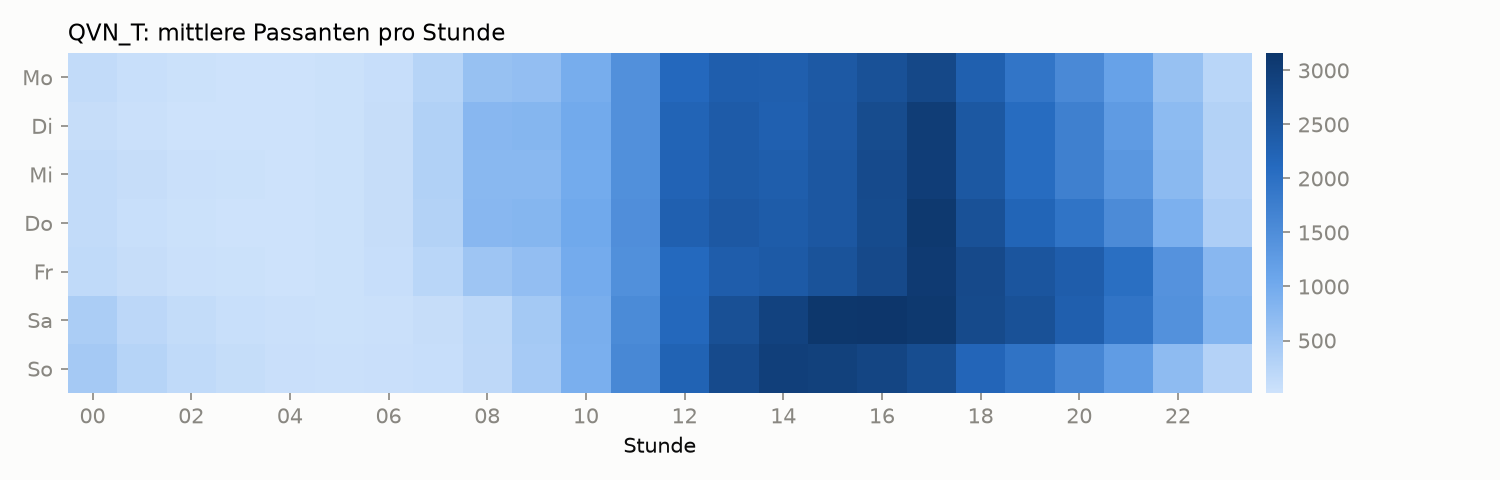
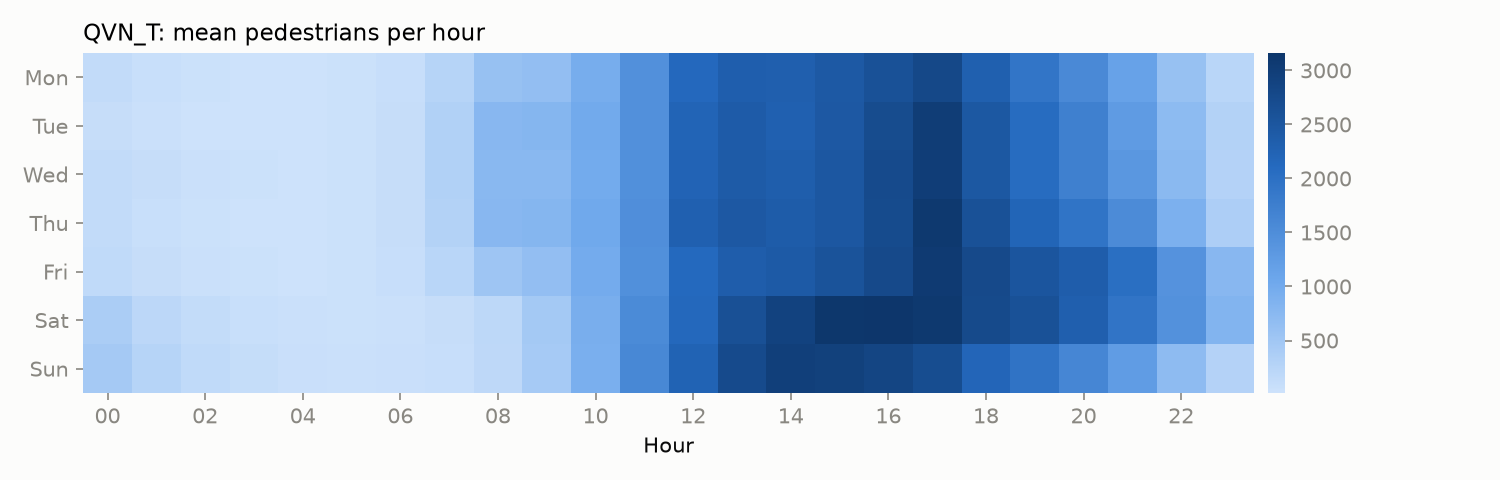
english translation

diff --git a/src/report.py b/src/report.py
@@ -8,7 +8,7 @@ from src.backtest import RESULTS
 from src.palette import COLORS, MODELS
 INK, MUTED, SURFACE = "#0b0b0b", "#898781", "#fcfcfb"
 BLUES = LinearSegmentedColormap.from_list("blues", ["#cde2fb", "#6da7ec", "#256abf", "#0d366b"])
-DAYS = ["Mo", "Di", "Mi", "Do", "Fr", "Sa", "So"]
+DAYS = ["Mon", "Tue", "Wed", "Thu", "Fri", "Sat", "Sun"]
 
 plt.rcParams.update(
     {
@@ -33,7 +33,7 @@ def tuning_table(path) -> str:
     if not path.exists():
         return ""
     report = json.loads(path.read_text())
-    lines = ["| Variante | MASE 24 h | MASE 7 d |", "|---|---|---|"]
+    lines = ["| Variant | MASE 24 h | MASE 7 d |", "|---|---|---|"]
     for variant in report["24"]:
         lines.append(f"| {variant} | {report['24'][variant]:.3f} | {report['168'][variant]:.3f} |")
     return "\n".join(lines)
@@ -47,7 +47,7 @@ def leaderboard(metrics: pd.DataFrame) -> str:
     agg["Coverage80"] = agg["Coverage80"].map("{:.0f} %".format)
     wide = agg.pivot(index="model", columns="horizon").reindex(present(agg))
     lines = [
-        "| Modell | MASE 24 h | MASE 7 d | sMAPE 24 h | sMAPE 7 d | Abdeckung 80 % (7 d) |",
+        "| Model | MASE 24 h | MASE 7 d | sMAPE 24 h | sMAPE 7 d | 80 % coverage (7 d) |",
         "|---|---|---|---|---|---|",
     ]
     for m, r in wide.iterrows():
@@ -62,7 +62,7 @@ def holiday_split(fc: pd.DataFrame, history: pd.DataFrame) -> str:
     df = fc[(fc["horizon"] == 168) & ~fc["imputed"]].merge(history[["unique_id", "ds", "holiday"]])
     df["ase"] = (df["y"] - df["yhat"]).abs() / df["scale"]
     tab = df.groupby(["model", "holiday"], observed=True)["ase"].mean().unstack().reindex(present(df))
-    lines = ["| Modell | MASE normale Tage | MASE Feiertage |", "|---|---|---|"]
+    lines = ["| Model | MASE regular days | MASE holidays |", "|---|---|---|"]
     lines += [f"| {m} | {r[False]:.3f} | {r[True]:.3f} |" for m, r in tab.iterrows()]
     return "\n".join(lines)
 
@@ -89,9 +89,9 @@ def hero(fc: pd.DataFrame, models: list[str], sensor: str, origin: pd.Timestamp,
         mase = (d["y"] - d["yhat"]).abs().mean() / d["scale"].iloc[0]
         ax.set_title(f"{model}  ·  MASE {mase:.2f}", loc="left", fontsize=10, color=INK)
         ax.grid(axis="y", color=MUTED, alpha=0.2)
-    axes[0].legend(["80 %-Intervall", "Ist", "Prognose"], loc="upper right", frameon=False, ncol=3, fontsize=9)
-    fig.supylabel("Passanten pro Stunde", color=INK)
-    fig.suptitle(f"{sensor}: 7-Tage-Prognose ab {origin + pd.Timedelta(hours=1):%d.%m.%Y}", x=0.01, ha="left")
+    axes[0].legend(["80 % interval", "Actual", "Forecast"], loc="upper right", frameon=False, ncol=3, fontsize=9)
+    fig.supylabel("Pedestrians per hour", color=INK)
+    fig.suptitle(f"{sensor}: 7-day forecast from {origin + pd.Timedelta(hours=1):%Y-%m-%d}", x=0.01, ha="left")
     fig.tight_layout()
     fig.savefig(path, dpi=150)
     plt.close(fig)
@@ -104,8 +104,8 @@ def heatmap(history: pd.DataFrame, sensor: str, path):
     im = ax.imshow(grid.to_numpy(), aspect="auto", cmap=BLUES)
     ax.set_yticks(range(7), DAYS)
     ax.set_xticks(range(0, 24, 2), [f"{h:02d}" for h in range(0, 24, 2)])
-    ax.set_xlabel("Stunde")
-    ax.set_title(f"{sensor}: mittlere Passanten pro Stunde", loc="left", fontsize=11)
+    ax.set_xlabel("Hour")
+    ax.set_title(f"{sensor}: mean pedestrians per hour", loc="left", fontsize=11)
     ax.spines[:].set_visible(False)
     fig.colorbar(im, ax=ax, pad=0.01).outline.set_visible(False)
     fig.tight_layout()
@@ -129,9 +129,9 @@ def main():
     report = "\n\n".join(
         [
             "## Leaderboard\n\n" + leaderboard(metrics),
-            "## Feiertage\n\n" + holiday_split(fc, history),
-            "## MASE pro Sensor (7 d)\n\n" + per_sensor(metrics),
-            "## LightGBM: Tuning und Features (Validierung)\n\n" + tuning_table(RESULTS / "tuning.json"),
+            "## Holidays\n\n" + holiday_split(fc, history),
+            "## MASE per sensor (7 d)\n\n" + per_sensor(metrics),
+            "## LightGBM: tuning and features (validation)\n\n" + tuning_table(RESULTS / "tuning.json"),
         ]
     )
     (RESULTS / "leaderboard.md").write_text(report + "\n")

diff --git a/README.md b/README.md
@@ -1,38 +1,38 @@
 # Pedestrian Traffic Forecast
 
-Stündliche Passantenzahlen in Melbourne vorhersagen und dabei eine Frage beantworten:
-**Lohnt sich ein Zeitreihen-Foundation-Model gegenüber einem gut gebauten LightGBM?**
+Forecasting hourly pedestrian counts in Melbourne to answer one question:
+**Is a time series foundation model worth it compared to a well-built LightGBM?**
 
 ![Hero](results/hero.png)
 
-## Daten
+## Data
 
-- [Melbourne Pedestrian Counting System](https://data.melbourne.vic.gov.au/explore/dataset/pedestrian-counting-system-monthly-counts-per-hour/), stündlich, ~100 Sensoren. Das Portal liefert ein rollierendes 2-Jahres-Fenster, Corona-Jahre sind damit automatisch ausgeschlossen.
-- Wetter: [Open-Meteo Historical API](https://open-meteo.com/en/docs/historical-weather-api) (Temperatur, Niederschlag)
-- Feiertage: `holidays` (AU, Victoria), inkl. Melbourne Cup und AFL Grand Final Friday
+- [Melbourne Pedestrian Counting System](https://data.melbourne.vic.gov.au/explore/dataset/pedestrian-counting-system-monthly-counts-per-hour/), hourly, ~100 sensors. The portal serves a rolling 2-year window, so the Covid years are excluded automatically.
+- Weather: [Open-Meteo Historical API](https://open-meteo.com/en/docs/historical-weather-api) (temperature, precipitation)
+- Holidays: `holidays` (AU, Victoria), including Melbourne Cup and AFL Grand Final Friday
 
-Auswahl: 8 Sensoren mit ≥ 99 % Abdeckung und dem höchsten mittleren Aufkommen. Lücken werden aufgefüllt, aber nicht bewertet.
+Selection: the 8 sensors with ≥ 99 % coverage and the highest mean volume. Gaps are filled but not scored.
 
-![Fingerabdruck](results/heatmap.png)
+![Fingerprint](results/heatmap.png)
 
-## Modelle
+## Models
 
-| Modell | Idee |
+| Model | Idea |
 |---|---|
-| SeasonalNaive | Wert derselben Stunde der Vorwoche |
-| MSTL-ETS | log-Skala, Zerlegung in Tages- und Wochensaison, ETS auf dem Rest |
-| Prophet | log-Skala, getrennte Tagesprofile für Werk- und Freitage, Feiertage, Wetter |
-| LightGBM | ein globales Modell über alle Sensoren, Kalender, Wetter, Lags; je Horizont ein Modell mit Lags ≥ Horizont, Quantilmodelle für das Intervall |
-| LightGBM-tuned | wie LightGBM, mit Optuna-Parametern und zusätzlichen Features (s. u.) |
-| Chronos-Bolt | `amazon/chronos-bolt-base` zero-shot, 2048 h Kontext, keine Kovariaten |
-| Chronos-2 | `amazon/chronos-2` zero-shot, 8192 h Kontext, univariat |
-| Chronos-2-Cov | wie Chronos-2, dazu Feiertag, Frei-Tag, Temperatur und Niederschlag als bekannte Zukunftswerte |
+| SeasonalNaive | value of the same hour one week earlier |
+| MSTL-ETS | log scale, decomposition into daily and weekly seasonality, ETS on the remainder |
+| Prophet | log scale, separate daily profiles for workdays and days off, holidays, weather |
+| LightGBM | one global model across all sensors with calendar, weather and lags; one model per horizon using lags ≥ horizon, quantile models for the interval |
+| LightGBM-tuned | like LightGBM, with Optuna parameters and additional features (see below) |
+| Chronos-Bolt | `amazon/chronos-bolt-base` zero-shot, 2048 h context, no covariates |
+| Chronos-2 | `amazon/chronos-2` zero-shot, 8192 h context, univariate |
+| Chronos-2-Cov | like Chronos-2, plus holiday, day off, temperature and precipitation as known future values |
 
 ## Backtest
 
-Rollierender Ursprung: 45 Ursprünge im Abstand von 8 Tagen über das letzte Jahr (dadurch wechselt der Wochentag des Ursprungs), Horizont 24 h und 7 Tage. Metriken: MASE (Skala: saisonaler Naive-Fehler mit Lag 168 im Training), sMAPE, Abdeckung des 80 %-Intervalls.
+Rolling origin: 45 origins 8 days apart over the last year (so the weekday of the origin rotates), horizons 24 h and 7 days. Metrics: MASE (scale: in-sample seasonal naive error with lag 168), sMAPE, coverage of the 80 % interval.
 
-| Modell | MASE 24 h | MASE 7 d | sMAPE 24 h | sMAPE 7 d | Abdeckung 80 % (7 d) |
+| Model | MASE 24 h | MASE 7 d | sMAPE 24 h | sMAPE 7 d | 80 % coverage (7 d) |
 |---|---|---|---|---|---|
 | LightGBM-tuned | **0.657** | **0.725** | 15.9 % | 17.9 % | 70 % |
 | LightGBM | 0.711 | 0.769 | 16.6 % | 18.8 % | 69 % |
@@ -43,11 +43,11 @@ Rollierender Ursprung: 45 Ursprünge im Abstand von 8 Tagen über das letzte Jah
 | MSTL-ETS | 1.233 | 1.303 | 23.0 % | 26.5 % | 96 % |
 | SeasonalNaive | 1.016 | 1.012 | 24.5 % | 24.6 % | 87 % |
 
-MASE < 1 heißt: besser als der saisonale Naive-Fehler im Training. 360 Fenster je Horizont (45 Ursprünge × 8 Sensoren).
+MASE < 1 means better than the in-sample seasonal naive error. 360 windows per horizon (45 origins × 8 sensors).
 
-### Feiertage
+### Holidays
 
-| Modell | MASE normale Tage | MASE Feiertage |
+| Model | MASE regular days | MASE holidays |
 |---|---|---|
 | LightGBM-tuned | 0.700 | 1.405 |
 | LightGBM | 0.745 | 1.420 |
@@ -58,7 +58,7 @@ MASE < 1 heißt: besser als der saisonale Naive-Fehler im Training. 360 Fenster 
 | MSTL-ETS | 1.253 | 2.646 |
 | SeasonalNaive | 0.979 | 1.938 |
 
-### MASE pro Sensor (7 d)
+### MASE per sensor (7 d)
 
 | Sensor | LightGBM-tuned | LightGBM | Chronos-2-Cov | Chronos-2 | Chronos-Bolt | Prophet | MSTL-ETS | SeasonalNaive |
 |---|---|---|---|---|---|---|---|---|
@@ -71,65 +71,65 @@ MASE < 1 heißt: besser als der saisonale Naive-Fehler im Training. 360 Fenster 
 | Swa295_T | **0.79** | 0.83 | 0.80 | 0.83 | 0.84 | 1.06 | 1.12 | 1.13 |
 | Swa31 | 0.69 | 0.76 | **0.64** | 0.64 | 0.65 | 0.88 | 1.39 | 0.86 |
 
-## LightGBM optimieren
+## Optimizing LightGBM
 
-Optuna (TPE, 50 Trials je Horizont) auf einem Validierungsfenster von 10 Wochen direkt vor dem ersten Backtest-Ursprung, Training davor. Da alle Lags ≥ Horizont sind, entspricht jede Validierungszeile einer echten h-Schritt-Prognose. Die Rundenzahl kommt aus Early Stopping. Gesucht wurde über Lernrate, Baumgröße, Regularisierung, Sampling, Verlustfunktion (L2, L1, Huber) und Zielgröße (log(y) oder Abweichung vom 4-Wochen-Mittel).
+Optuna (TPE, 50 trials per horizon) on a 10-week validation window directly before the first backtest origin, trained on everything before it. Since all lags are ≥ horizon, each validation row is a genuine h-step-ahead forecast. The number of rounds comes from early stopping. The search covered learning rate, tree size, regularization, sampling, loss (L2, L1, Huber) and target (log(y) or deviation from the 4-week same-hour mean).
 
-Neue Features: Stunde der Woche, Tage bis/seit Feiertag (gekappt bei 3), Abstand zu Weihnachten, Median und Streuung derselben Stunde über 4 Wochen, Wochentrend, Feiertag vor einer Woche, Frei-Tag am Vortag, Niederschlag der letzten 3 Stunden.
+New features: hour of week, days to/since holiday (capped at 3), distance to Christmas, median and standard deviation of the same hour over 4 weeks, weekly trend, holiday one week earlier, day off on the previous day, precipitation over the last 3 hours.
 
-| Variante | MASE 24 h | MASE 7 d |
+| Variant | MASE 24 h | MASE 7 d |
 |---|---|---|
 | v1 | 0.731 | 0.814 |
 | v1 + Features | 0.725 | 0.838 |
 | Tuning | 0.700 | 0.770 |
 | Tuning + Features | 0.680 | 0.774 |
 
-Beide Horizonte wählen L1-Verlust auf log(y), kleine Bäume (26–27 Blätter) und nur 30–45 % der Features pro Baum.
+Both horizons pick L1 loss on log(y), small trees (26–27 leaves) and only 30–45 % of the features per tree.
 
-## Erkenntnisse
+## Findings
 
-**Kurz: Der getunte LightGBM gewinnt, Chronos-2 mit Kovariaten kommt ohne Training bis auf 2 % heran.**
+**In short: the tuned LightGBM wins, Chronos-2 with covariates gets within 2 % without any training.**
 
-- **Optimierung:** LightGBM-tuned verbessert MASE gegenüber v1 um 8 % (24 h, 0.711 → 0.657) und 6 % (7 d, 0.769 → 0.725) und gewinnt rund zwei Drittel der Fenster gegen v1. Den größten Teil bringt das Tuning. Beide Horizonte wählen L1-Verlust, der direkt den absoluten Fehler optimiert, auf dem MASE beruht. Die neuen Features helfen beim 24-h-Modell, beim 7-Tage-Modell sind sie neutral. Wichtigstes neues Feature ist der Median derselben Stunde über 4 Wochen (rund 30 % des Gains), er ist robuster gegen einzelne Feiertage als der Mittelwert.
-- **Chronos-2 gegen Chronos-Bolt:** Chronos-2 ist bei 7 Tagen 5 % besser (0.760 gegen 0.796), bei 24 h gleichauf. Der längere Kontext und die direkte Prognose über 168 Schritte zahlen sich beim langen Horizont aus.
-- **Kovariaten:** Feiertage und Wetter verbessern Chronos-2 um 2–3 % (7 d: 0.736 gegen 0.760). Damit ist Chronos-2-Cov bei 7 Tagen fast gleichauf mit LightGBM-tuned (0.736 gegen 0.725) und gewinnt sogar etwas mehr Einzelfenster (185 gegen 175). Bei 24 h bleibt LightGBM klar vorn (0.657 gegen 0.728), weil es die Lags der letzten Tage nutzt.
-- **Feiertage:** Alle Modelle verdoppeln ihren Fehler. LightGBM-tuned bleibt dort am besten (1.41). Chronos-2-Cov ist an normalen Tagen fast so gut (0.704 gegen 0.700), an Feiertagen aber schlechter (1.62) und nicht besser als ohne Kovariaten. Das Feiertags-Flag allein erklärt dem Foundation Model nicht, wie stark ein Feiertag wirkt.
-- **Intervalle:** Chronos-Bolt ist am besten kalibriert (80–84 % Abdeckung beim 80 %-Intervall), Chronos-2 liegt bei 73–77 %. Die LightGBM-Quantilmodelle sind zu schmal (68–70 %), MSTL-ETS ist viel zu breit (96 %).
-- **Aufwand:** Alle Chronos-Varianten brauchen keine Features und kein Training: 1–3 Minuten für 45 Ursprünge auf MPS. LightGBM-tuned braucht dafür zusätzlich rund 20 Minuten Tuning und ein Mehrfaches an Rechenzeit im Backtest.
-- **Überraschung:** MSTL-ETS und Prophet sind nicht besser als die Vorwoche. Für stabile Pendlerstandorte ist der saisonale Naive-Ansatz schon stark, und LightGBM verdankt rund drei Viertel seines Gains den Werten derselben Stunde in den letzten vier Wochen.
+- **Optimization:** LightGBM-tuned improves MASE over v1 by 8 % (24 h, 0.711 → 0.657) and 6 % (7 d, 0.769 → 0.725) and wins about two thirds of the windows against v1. Most of the gain comes from tuning. Both horizons pick L1 loss, which directly optimizes the absolute error that MASE is based on. The new features help the 24 h model and are neutral for the 7-day model. The most important new feature is the 4-week same-hour median (about 30 % of the gain), which is more robust to single holidays than the mean.
+- **Chronos-2 vs. Chronos-Bolt:** Chronos-2 is 5 % better at 7 days (0.760 vs. 0.796) and on par at 24 h. The longer context and the direct 168-step forecast pay off at the long horizon.
+- **Covariates:** Holidays and weather improve Chronos-2 by 2–3 % (7 d: 0.736 vs. 0.760). That puts Chronos-2-Cov almost level with LightGBM-tuned at 7 days (0.736 vs. 0.725), and it even wins slightly more individual windows (185 vs. 175). At 24 h LightGBM stays clearly ahead (0.657 vs. 0.728) because it uses the lags of the last few days.
+- **Holidays:** All models roughly double their error. LightGBM-tuned stays best there (1.41). Chronos-2-Cov is almost as good on regular days (0.704 vs. 0.700) but worse on holidays (1.62), and no better than without covariates. A holiday flag alone does not tell the foundation model how strong the effect of a holiday is.
+- **Intervals:** Chronos-Bolt is best calibrated (80–84 % coverage for the 80 % interval), Chronos-2 reaches 73–77 %. The LightGBM quantile models are too narrow (68–70 %), MSTL-ETS is far too wide (96 %).
+- **Effort:** None of the Chronos variants need features or training: 1–3 minutes for 45 origins on MPS. LightGBM-tuned additionally needs about 20 minutes of tuning and several times the compute in the backtest.
+- **Surprise:** MSTL-ETS and Prophet are no better than last week's value. For stable commuter locations the seasonal naive approach is already strong, and LightGBM owes about three quarters of its gain to the values of the same hour over the last four weeks.
 
-Für Digital Signage heißt das: Chronos-2 mit Kalender und Wetter ist eine sehr gute Ausgangsbasis, die man ohne Data-Science-Aufwand für neue Standorte nutzen kann, und für Wochenprognosen kaum schlechter als ein getunter LightGBM. Für Tagesprognosen und Feiertage lohnt sich das eigene Modell.
+For digital signage this means: Chronos-2 with calendar and weather is a very good baseline that can be rolled out to new locations without data science effort, and for weekly forecasts it is barely worse than a tuned LightGBM. For daily forecasts and holidays, a dedicated model pays off.
 
-Einschränkung: Prophet, LightGBM und Chronos-2-Cov bekommen das tatsächlich beobachtete Wetter als Regressor (Oracle). Mit Wetterprognosen wären sie etwas schlechter.
+Caveat: Prophet, LightGBM and Chronos-2-Cov receive the actually observed weather as a regressor (oracle). With weather forecasts they would be slightly worse.
 
-## Struktur
+## Structure
 
 ```
-data/download.py        Zählungen und Wetter nach data/raw/ laden
-src/features.py         Sensorauswahl, Stundenraster, Kalender, Wetter
-src/models.py           alle Modelle mit einheitlicher Schnittstelle
-src/metrics.py          MASE, sMAPE, Abdeckung
-src/tune.py             Optuna-Tuning für LightGBM auf einem Zeitraum vor dem Backtest
-src/backtest.py         rollierender Backtest, schreibt results/*.parquet
-src/report.py           README-Grafiken und Tabellen
+data/download.py        download counts and weather to data/raw/
+src/features.py         sensor selection, hourly grid, calendar, weather
+src/models.py           all models behind one interface
+src/metrics.py          MASE, sMAPE, coverage
+src/tune.py             Optuna tuning for LightGBM on a window before the backtest
+src/backtest.py         rolling backtest, writes results/*.parquet
+src/report.py           README figures and tables
 notebooks/              01_eda, 02_baselines, 03_foundation
-app/streamlit_app.py    lädt nur vorberechnete Ergebnisse
+app/streamlit_app.py    loads precomputed results only
 ```
 
-## Reproduzieren
+## Reproduce
 
 ```bash
-brew install libomp      # für LightGBM auf macOS
+brew install libomp      # for LightGBM on macOS
 uv sync
 uv run python data/download.py
-uv run python -m src.tune         # ~20 min, schreibt results/lgb_params.json
-uv run python -m src.backtest     # --debug für Details, --resume nach Abbruch
+uv run python -m src.tune         # ~20 min, writes results/lgb_params.json
+uv run python -m src.backtest     # --debug for details, --resume after an interruption
 uv run python -m src.report
 uv run streamlit run app/streamlit_app.py
 ```
 
-PyTorch und LightGBM laden unterschiedliche OpenMP-Laufzeiten, die sich in einem Prozess gegenseitig blockieren. Chronos läuft deshalb in einem eigenen Prozess.
+PyTorch and LightGBM load different OpenMP runtimes that deadlock each other in one process, so Chronos runs in a separate process.
 
 ## Deployment
 
-Streamlit Community Cloud, Einstiegspunkt `app/streamlit_app.py`. Die App braucht nur `app/requirements.txt` und `results/`, Chronos wird nicht in der App gerechnet.
+Streamlit Community Cloud, entry point `app/streamlit_app.py`. The app only needs `app/requirements.txt` and `results/`; Chronos is not run inside the app.

diff --git a/results/leaderboard.md b/results/leaderboard.md
@@ -1,6 +1,6 @@
 ## Leaderboard
 
-| Modell | MASE 24 h | MASE 7 d | sMAPE 24 h | sMAPE 7 d | Abdeckung 80 % (7 d) |
+| Model | MASE 24 h | MASE 7 d | sMAPE 24 h | sMAPE 7 d | 80 % coverage (7 d) |
 |---|---|---|---|---|---|
 | LightGBM-tuned | **0.657** | **0.725** | 15.9 % | 17.9 % | 70 % |
 | LightGBM | 0.711 | 0.769 | 16.6 % | 18.8 % | 69 % |
@@ -11,9 +11,9 @@
 | MSTL-ETS | 1.233 | 1.303 | 23.0 % | 26.5 % | 96 % |
 | SeasonalNaive | 1.016 | 1.012 | 24.5 % | 24.6 % | 87 % |
 
-## Feiertage
+## Holidays
 
-| Modell | MASE normale Tage | MASE Feiertage |
+| Model | MASE regular days | MASE holidays |
 |---|---|---|
 | LightGBM-tuned | 0.700 | 1.405 |
 | LightGBM | 0.745 | 1.420 |
@@ -24,7 +24,7 @@
 | MSTL-ETS | 1.253 | 2.646 |
 | SeasonalNaive | 0.979 | 1.938 |
 
-## MASE pro Sensor (7 d)
+## MASE per sensor (7 d)
 
 | Sensor | LightGBM-tuned | LightGBM | Chronos-2-Cov | Chronos-2 | Chronos-Bolt | Prophet | MSTL-ETS | SeasonalNaive |
 |---|---|---|---|---|---|---|---|---|
@@ -37,9 +37,9 @@
 | Swa295_T | **0.79** | 0.83 | 0.80 | 0.83 | 0.84 | 1.06 | 1.12 | 1.13 |
 | Swa31 | 0.69 | 0.76 | **0.64** | 0.64 | 0.65 | 0.88 | 1.39 | 0.86 |
 
-## LightGBM: Tuning und Features (Validierung)
+## LightGBM: tuning and features (validation)
 
-| Variante | MASE 24 h | MASE 7 d |
+| Variant | MASE 24 h | MASE 7 d |
 |---|---|---|
 | v1 | 0.731 | 0.814 |
 | v1 + Features | 0.725 | 0.838 |
